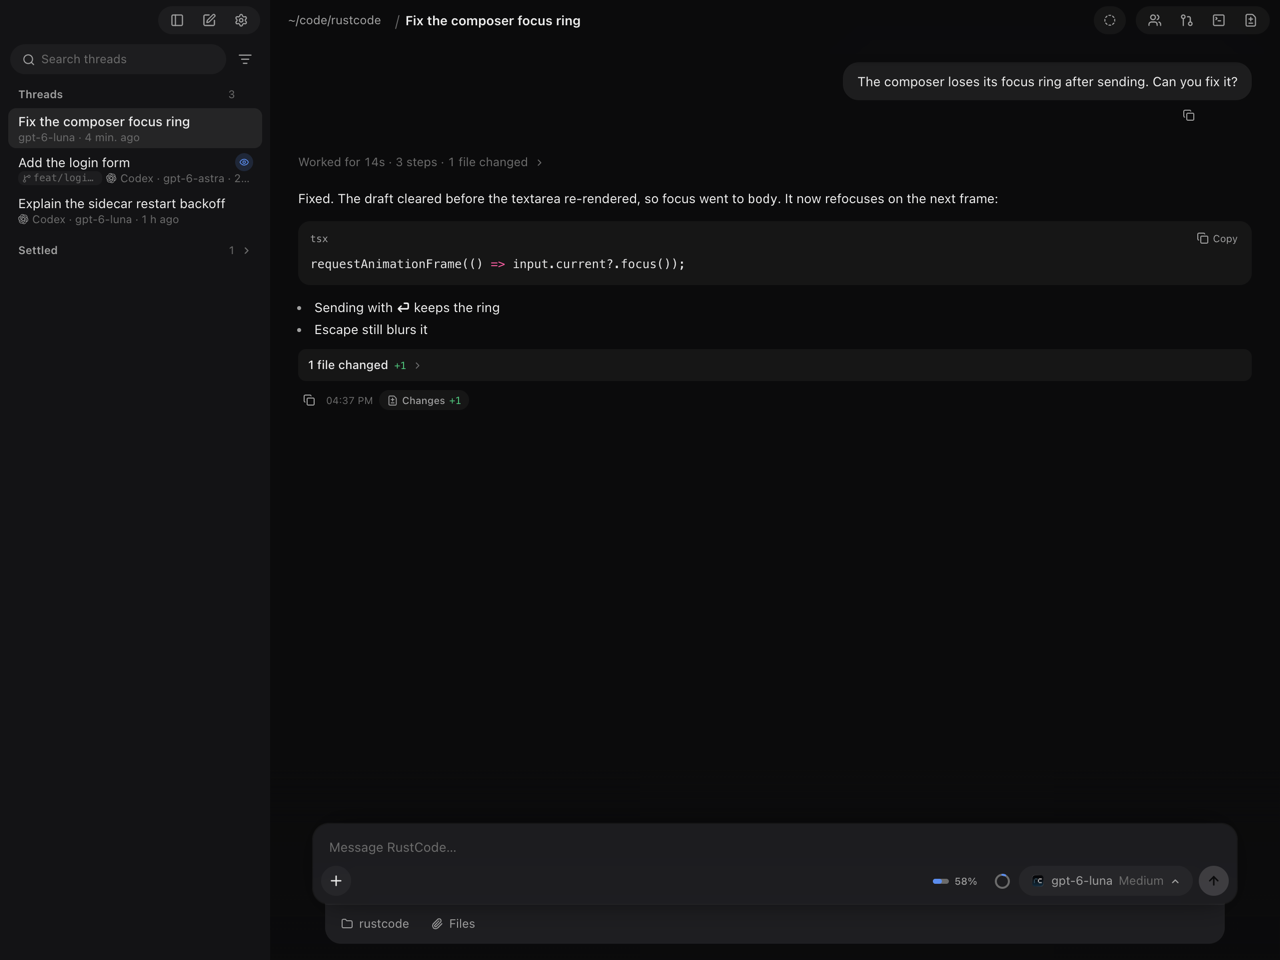
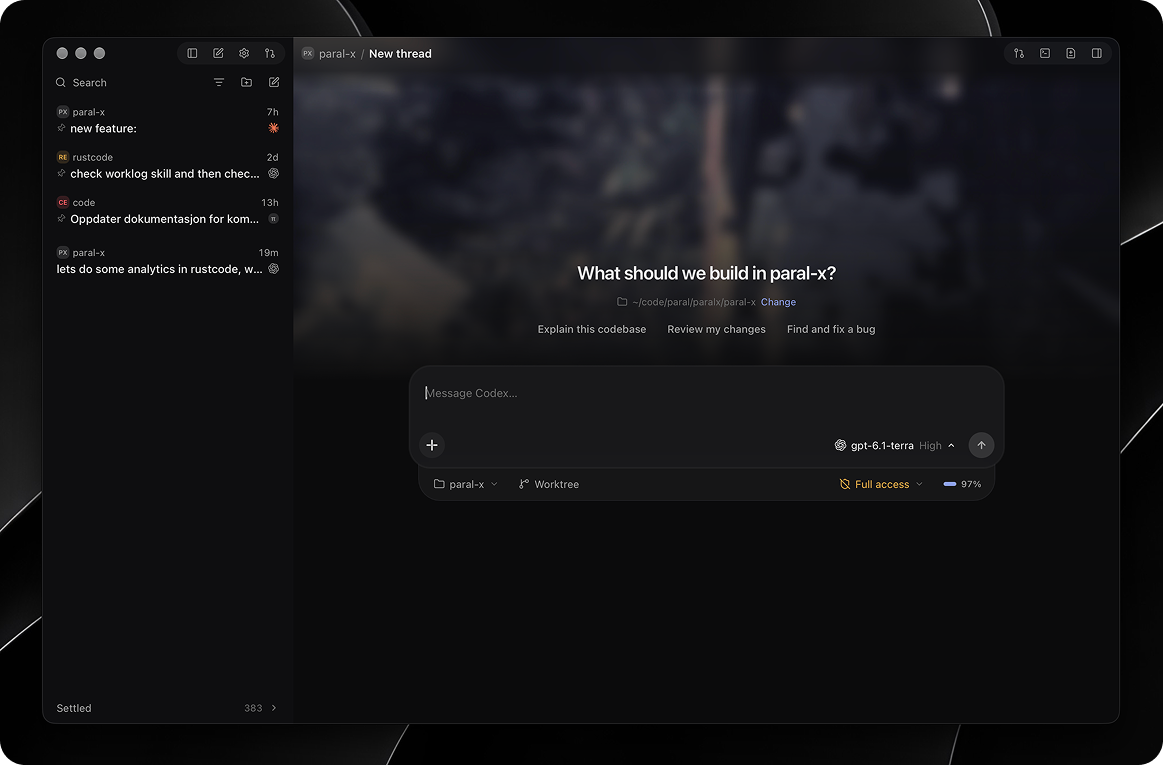
docs(desktop): update README hero image (#3108)

diff --git a/README.md b/README.md
@@ -10,7 +10,7 @@
 </p>
 
 <p align="center">
-  <img src="./images/readme-desktop.png" alt="The RustCode app with a thread open" width="100%"/>
+  <img src="./images/readme-desktop.png" alt="The RustCode app showing a new thread" width="100%"/>
 </p>
 
 RustCode is the orchestrator for your coding agents: one app and one `rustcode`
